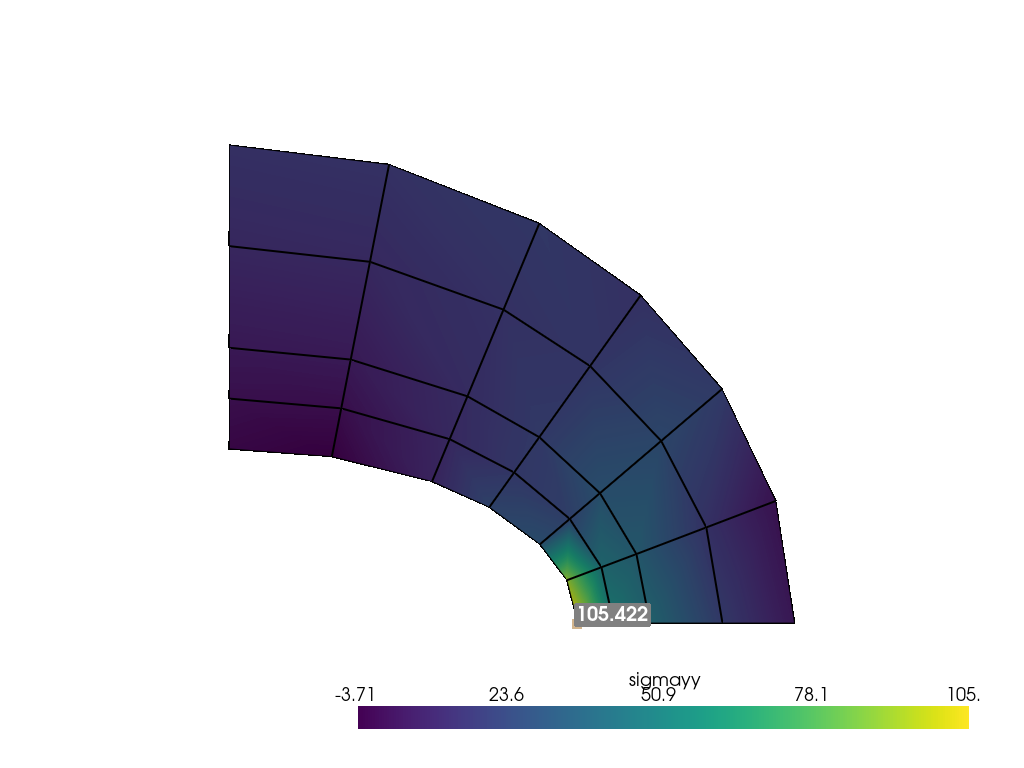
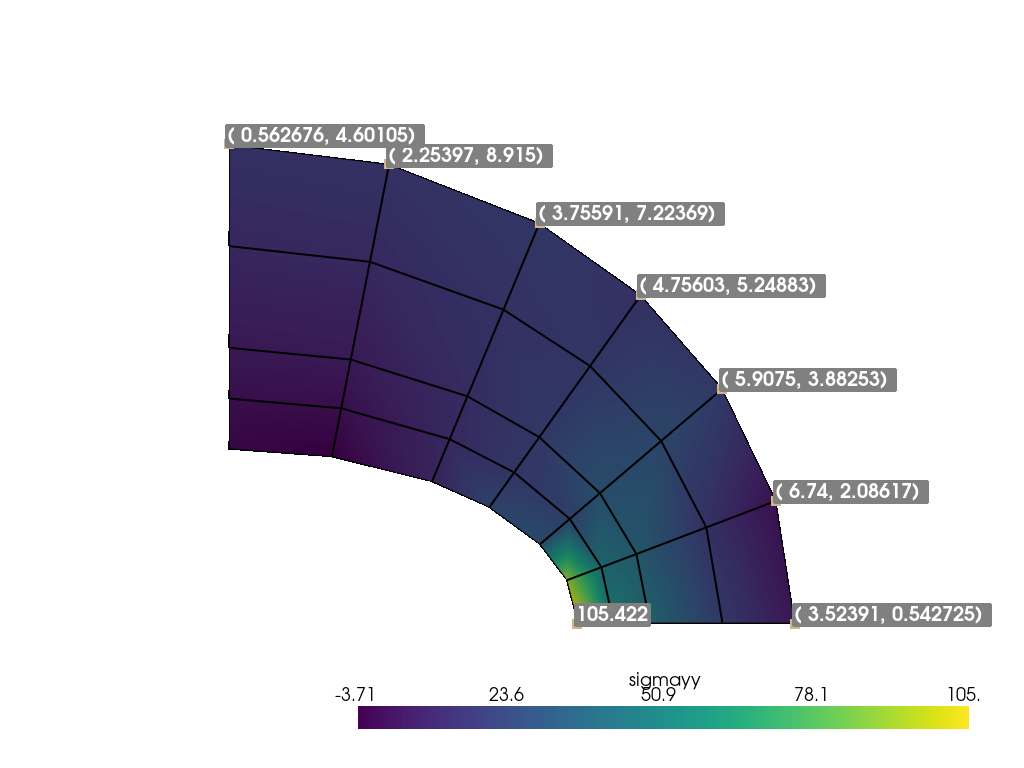
Add fine-quadrilateron-1d.py output

diff --git a/benchmarks_data/structure/elliptic_membrane/GetFEM/fine-quadrilateron-1d.py b/benchmarks_data/structure/elliptic_membrane/GetFEM/fine-quadrilateron-1d.py
@@ -45,6 +45,8 @@ md.add_initialized_data("nu", nu)
 md.add_isotropic_linearized_elasticity_pstress_brick(mim, "u", "E", "nu")
 md.add_normal_source_term_brick(mim, "u", "NeumannData", OUTER_BOUND)
 # md.add_source_term(mim, "(Reshape(NeumannData,qdim(u),meshdim)*Normal).Test_u", OUTER_BOUND)
+md.assembly()
+RHS = md.rhs()
 md.add_initialized_data("r1", [0, 0])
 md.add_initialized_data("r2", [0, 0])
 md.add_initialized_data("H1", [[1, 0], [0, 0]])
@@ -59,16 +61,24 @@ md.solve()
 U = md.variable("u")
 grad_u = gf.compute_gradient(mfu, U, mfd)
 sigmayy = clambda * (grad_u[0, 0] + grad_u[1, 1]) + 2.0 * mu * grad_u[1, 1]
-mfu.export_to_vtk("fine-quadrilateron-1d.vtk", "ascii", mfd, sigmayy, "sigmayy")
+mfu.export_to_vtk(
+    "fine-quadrilateron-1d.vtk", "ascii", mfd, sigmayy, "sigmayy", mfu, RHS, "RHS"
+)
 
 m = pv.read("fine-quadrilateron-1d.vtk")
 pl = pv.Plotter()
 pl.add_mesh(m, show_edges=True, line_width=2, scalars="sigmayy")
 pl.add_point_labels(
-    m.points[np.all(m.points == [2.0, 0.0, 0.0], axis=1)],
-    [str(m["sigmayy"][np.all(m.points == [2.0, 0.0, 0.0], axis=1)][0])],
-    point_size=10,
-    font_size=20,
-    text_color="white",
+    m.points[8], [str(m["sigmayy"][8])], point_size=10, font_size=20, text_color="white"
 )
+
+for i in [18, 20, 22, 24, 26, 30, 32]:
+    pl.add_point_labels(
+        m.points[i],
+        ["( " + str(m["RHS"][:, 0][i]) + ", " + str(m["RHS"][:, 1][i]) + ") "],
+        point_size=10,
+        font_size=20,
+        text_color="white",
+    )
+
 pl.show(cpos="xy", screenshot="fine-quadrilateron-1d.png")
